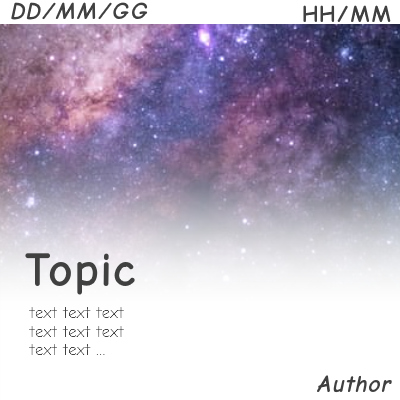
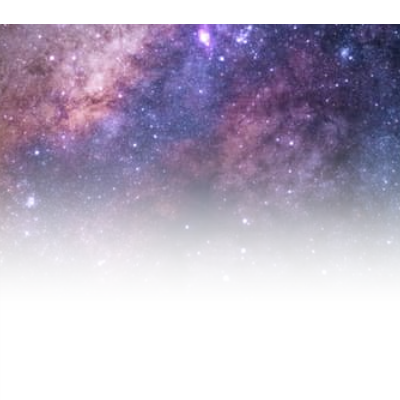
view,add,edit,remove

diff --git a/.UI/styles.css b/.UI/styles.css
@@ -1,135 +1,173 @@
 <style type="text/css">
-        body {
-          margin: 0;
-        }
-        .div{
-            overflow: hidden;
-        }
-        .heading{
-            position: relative;
-            background: #404040;
-            height: 108px;
-            width: 100%;
-            color: black;
-        
-        }
-        .logo{
-            position: relative;
-            top: 18px;
-            left: 85px; 
+body {
+    margin: 0;
+}
+.div{
+    overflow: hidden;
+}
+.heading{
+    position: relative;
+    background: #7e7996;
+    height: 108px;
+    width: 100%;
+    color: black;
 
-            height: 72px;
-            width: 270px;
-            font-size: 300%;
-            text-align: center;
-            display: table-cell;
-            vertical-align: middle;
-            font-family: "magrabold",sans-serif;
+}
+.logo{
+    position: relative;
+    top: 18px;
+    left: 85px;
 
-            background: #808080;
-      
-        }
-        .loginButton{
+    height: 72px;
+    width: 270px;
+    font-size: 300%;
+    text-align: center;
+    display: table-cell;
+    vertical-align: middle;
+    font-family: "magrabold",sans-serif;
 
-            position: absolute;
-            top: 28px;
-            right: 72px;
+    background: #b1a8bd;
 
-            height: 54px;
-            width: 168px;
-
-            background-image: url("buttons//login.png");
-        }
-
-        .welcomeText{
-            font-size: 200%;
-            position: absolute;
-            font-style: italic;
-            font-weight: bold;
-            color: white;
-            right: 250px;
-            top: 36px;
-
-            
-            text-align: right;
-        }
-        .background{
-
-            background-image: url("buttons//background.png");
-            height: 1200px;
-            width: 1920px;
-
-        }
-
-        .floatingBox{
-            position: relative;
-            display: inline-block;
-            width: 400px;
-            height: 400px;
-            margin: 10px;
-            border: 2px solid black;
-            text-align: center;
-            background-image: url("buttons//preview.png");
-
-        }
-        .column{
-            position: absolute;
-            width: 25%;
-            right: 0;            
-            background-image: url("buttons//actioncenter.png");
-            background-repeat: repeat-y;
-            height: 1200px;
-        }
-
-        .nextPage{
-            position: absolute;
-            width: 76px;
-            height: 53px;
-            background-image: url("buttons//next.png");
-            right: 10px;
-            top: 20px;
-            margin: 10;
-        }
-        .previousPage{
-            position: absolute;
-            width: 76px;
-            height: 53px;
-            background-image: url("buttons//previous.png");
-            left: 10px;
-            top: 20px;
-        }
-
-        .infoBox{
-            position: absolute;
-            width: 330px;
-            height: 594px;
-            right: 3%;
-            top: 306px;
-            background-image: url("buttons//infobox.png");
-        }
-
-        html,
-        body {
-          height: 70%;
-        }
-        .wrapper {
-          display: flex;
-          flex-direction: column;
-          height: 70%;
-        }
-        .content {
-          flex: 1 0 auto;
-        }
-        .footer {
-          flex: 0 0 auto;
-          background-color: grey;
-          color: white;
-          text-align: center;
-          height: 25%;
-        }
+}
 
 
-        
+.loginButton{
+
+    position: absolute;
+    top: 28px;
+    right: 72px;
+
+    height: 54px;
+    width: 168px;
+
+    background-image: url("buttons//login.png");
+}
+
+.welcomeText{
+    font-size: 200%;
+    position: absolute;
+    font-style: italic;
+    font-weight: bold;
+    color: white;
+    right: 250px;
+    top: 36px;
 
 
-    </style>
+    text-align: right;
+}
+.background{
+
+    background-image: url("buttons//background.png");
+    height: 1200px;
+    width: 1920px;
+
+}
+
+.prototypes{
+    display: none;
+}
+
+.news-box{
+    position: relative;
+    display: inline-block;
+    width: 400px;
+    height: 400px;
+    margin: 10px;
+    border: 2px solid black;
+    text-align: center;
+    background-image: url("buttons//preview.png");
+
+}
+        /**/
+            .date{
+                width: 100%;
+                height: 55%;
+                font-size: 15px;
+            }
+
+            .topic {
+                width: 100%;
+                height:25%;
+                text-align: left;
+                font-weight: bold;
+                font-size: 30px;
+            }
+
+
+            .summary {
+                text-align: left;
+                font-size: 16px;
+                font-style: italic;
+                width: 100%;
+            }
+
+            .author{
+                position: absolute;
+                bottom: 0px;
+                width: 100%;
+                text-align: right;
+                font-style: italic;
+                font-weight: bold;
+            }
+        /**/
+.column{
+    position: absolute;
+    width: 25%;
+    right: 0;
+    background-image: url("buttons//actioncenter.png");
+    background-repeat: repeat-y;
+    height: 1200px;
+}
+
+.nextPage{
+    position: absolute;
+    width: 76px;
+    height: 53px;
+    background-image: url("buttons//next.png");
+    right: 10px;
+    top: 20px;
+    margin: 10;
+}
+.previousPage{
+    position: absolute;
+    width: 76px;
+    height: 53px;
+    background-image: url("buttons//previous.png");
+    left: 10px;
+    top: 20px;
+}
+
+.infoBox{
+    position: absolute;
+    width: 330px;
+    height: 594px;
+    right: 3%;
+    top: 306px;
+    background-image: url("buttons//infobox.png");
+}
+
+html,
+body {
+    height: 70%;
+}
+.wrapper {
+    display: flex;
+    flex-direction: column;
+    height: 70%;
+}
+.content {
+    flex: 1 0 auto;
+}
+.footer {
+    flex: 0 0 auto;
+    background-color: grey;
+    color: white;
+    text-align: center;
+    height: 25%;
+}
+
+
+
+
+
+</style>

diff --git a/.UI/index.html b/.UI/index.html
@@ -1,8 +1,9 @@
 <!DOCTYPE html>
 <html>
 <head>
+    <meta charset="utf-8">
     <title>Test Page</title>
-    <LINK REL=StyleSheet HREF="styles.css" TYPE="text/css" MEDIA=screen>
+    <link REL=StyleSheet HREF="styles.css" TYPE="text/css" MEDIA=screen>
 
 </head>
 <body>
@@ -12,32 +13,31 @@
     <div class="loginButton"></div>
 
 </div>
+
 <div class="wrapper">
     <div class="content">
-     
-
         <div class="infoBox">info box</div>
-        <div style="width: 75%;">
-            <div class="floatingBox">News</div>
-            <div class="floatingBox">News</div>
-            <div class="floatingBox">News</div>
-            <div class="floatingBox">News</div>
-            <div class="floatingBox">News</div>
-            <div class="floatingBox">News</div>
+
+        <div id="news-field" style="width: 75%; background-color: #2d2d39;">
         </div>
 
         <div style="width: 70%;height: 200px;position: relative;">
             <div class="previousPage"></div>
             <div class="nextPage"></div>
         </div>
-
-
-
-
-
     </div>
     <div class="footer">Footer</div>
-
 </div>
+
+    <div class="prototypes">
+        <div id="news-box" class="news-box">
+            <div class="date"></div>
+            <div class="topic"></div>
+            <div class="summary"></div>
+            <div class="author"></div>
+        </div>
+    </div>
+
+<script src="script.js"></script>
 </body>
 </html>
